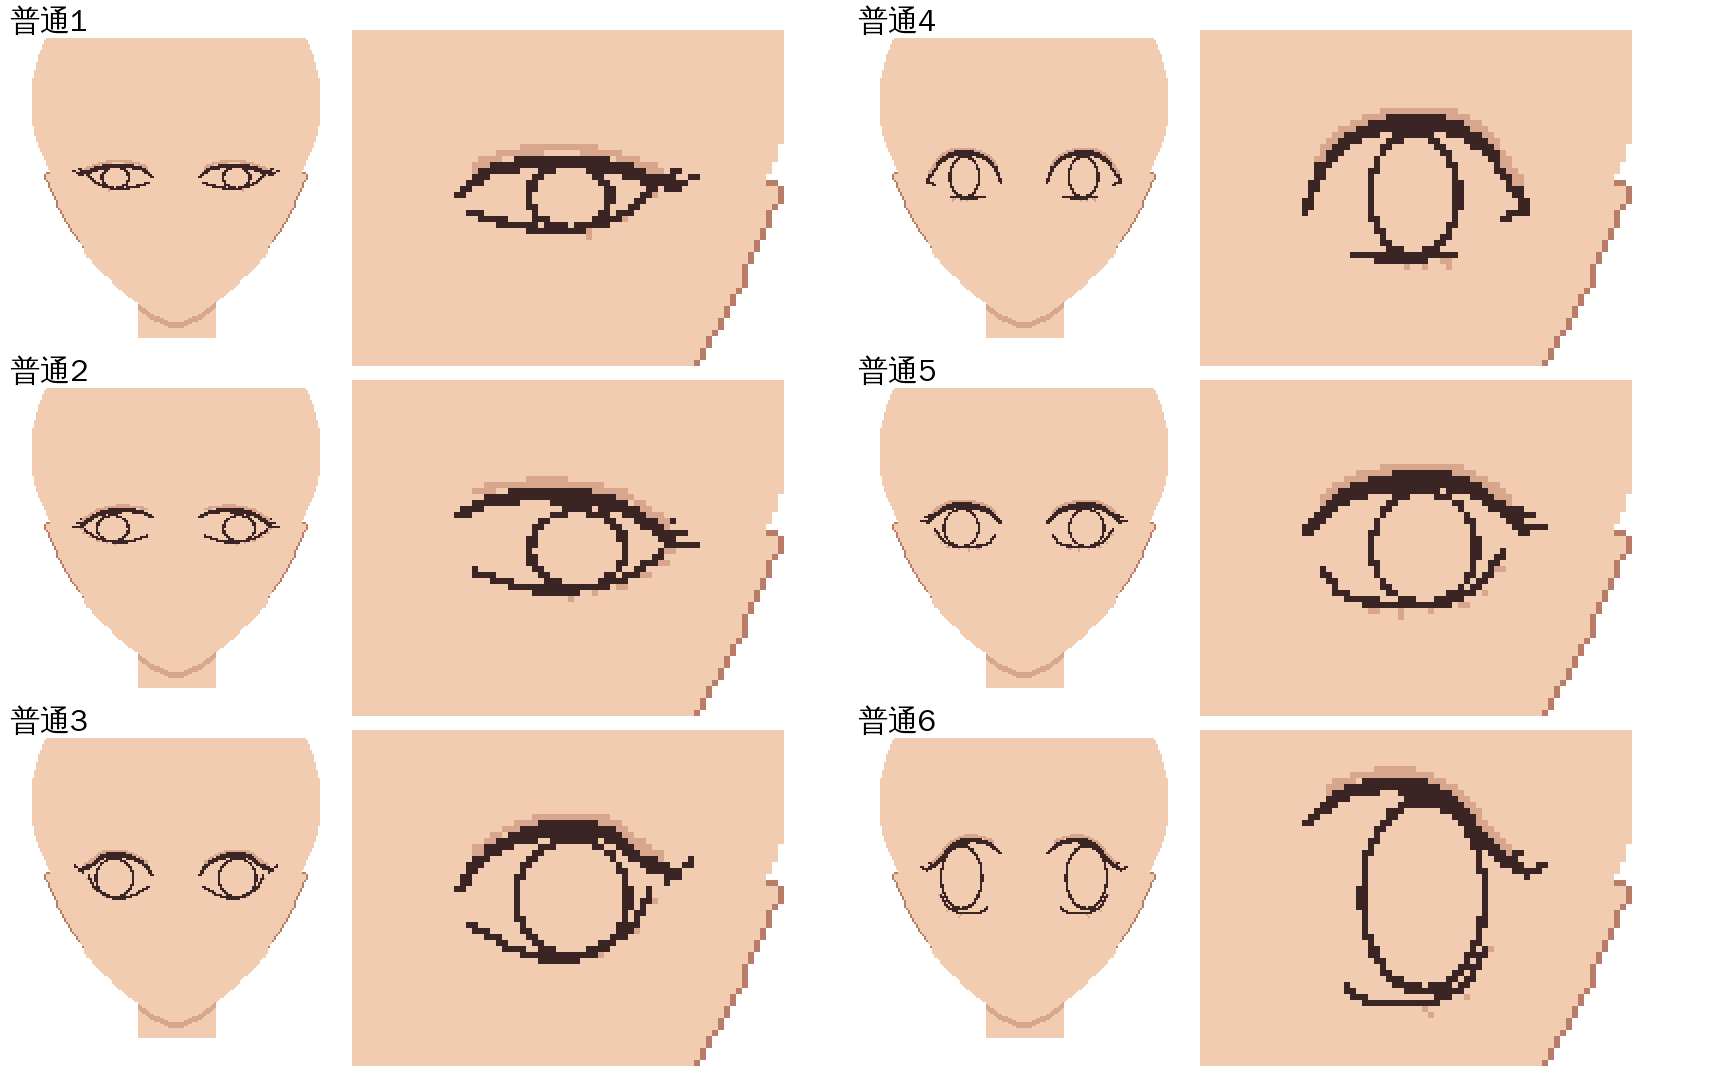
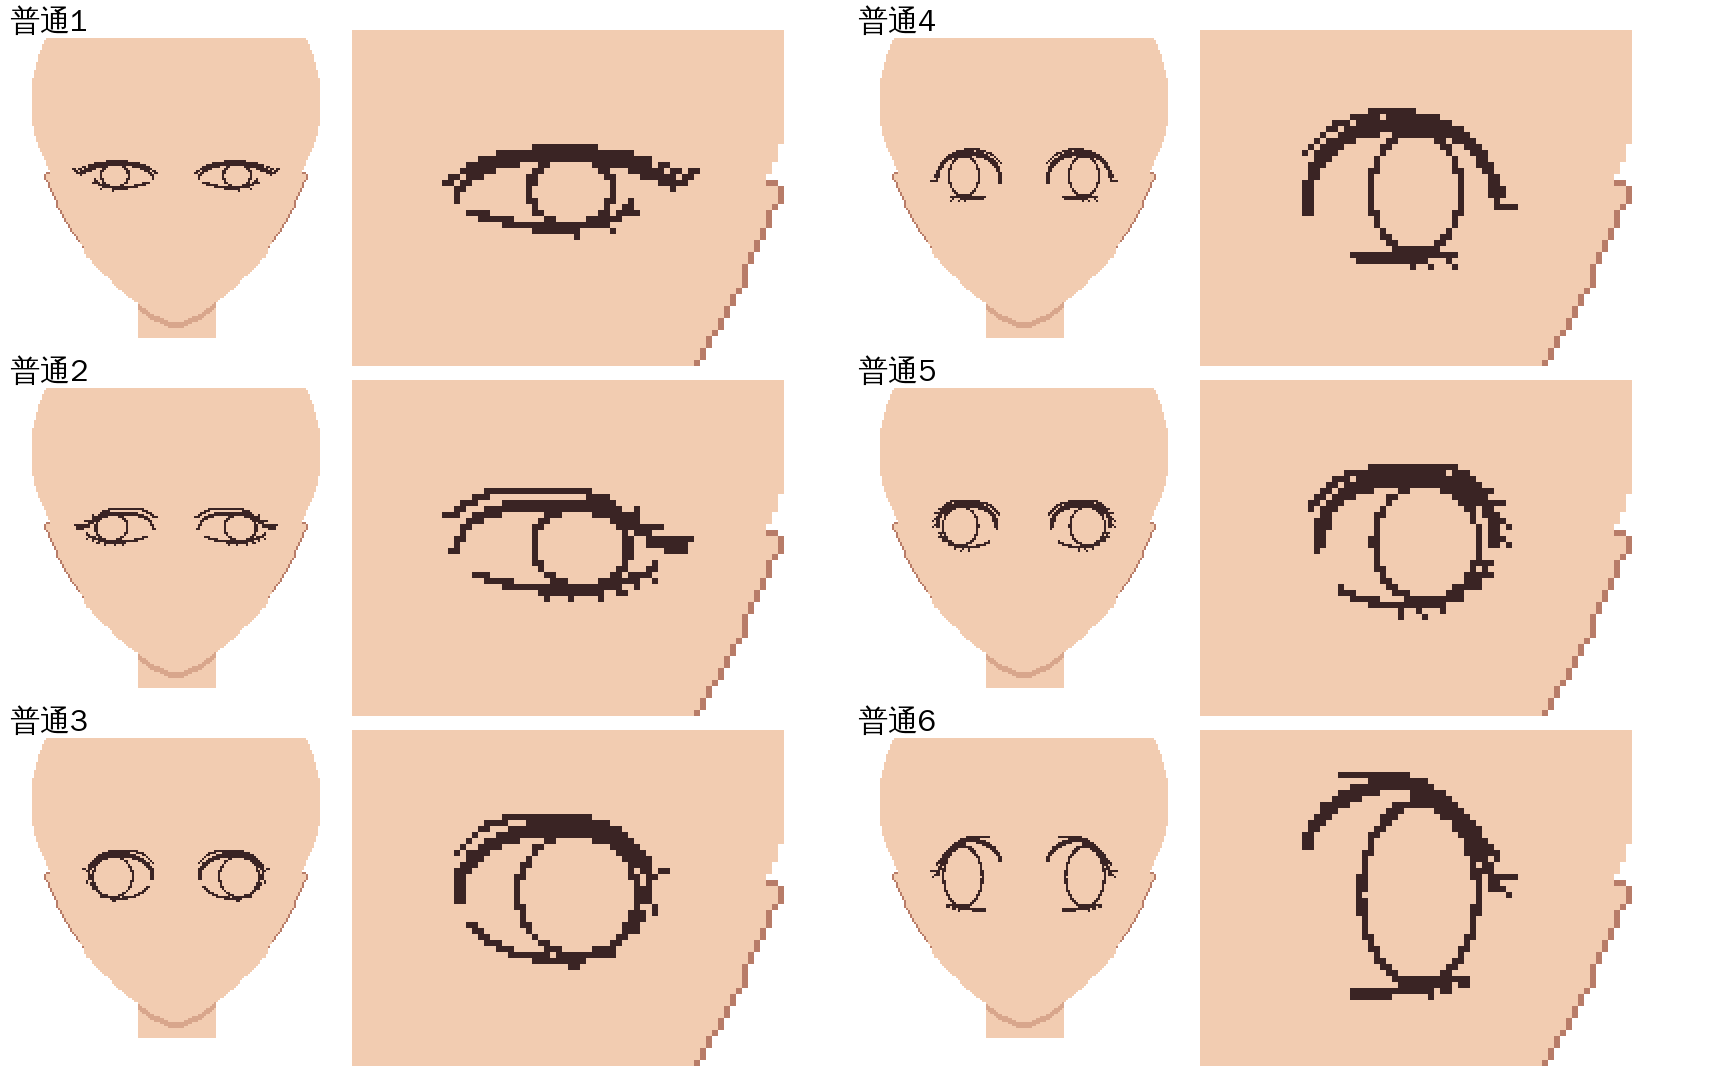
droom 臉模 v2：普通 6 種重量（使用者：黑眼球太小、要偏上；先不要著色）——把教學圖對到同一格子讀上眼線、雙眼皮線、下眼線和黑眼珠（大、中心偏上、上緣藏在上眼線下、下緣碰下眼線）；線稿模式雙眼皮線和下睫毛也用線色；對照圖 samples/eye_A_vs_ref.png
Claude-Session: https://claude.ai/code/session_01FDQv7ddy7JMjePn6AqJ3VJ

diff --git a/web/droom/face_mold/v2/eyeframe.py b/web/droom/face_mold/v2/eyeframe.py
@@ -16,18 +16,25 @@ LASHN=4;LASHL=3.0;IRISW,IRISH=5.6,7.8
 TYPES={
  # ── 2026-11-19 第二本教學「普通」那 6 個，照圖量的（眼寬當 27，原點在開口中央）──
  # 上眼線比較細、雙眼皮線貼得很近（cro）、下眼線整條畫、黑眼珠大而且上緣藏在上眼線下（ir＝中心 x,y、橫半徑、直半徑）
- 'A1':dict(name='普通1',up=[(-13.5,0),(-9.3,-3.1),(-2.4,-4.3),(4.5,-3.8),(10,-2.1),(13.5,-1)],upw=(1.0,2.0,1.6),
-   hooks=[],lo=[(-12.1,2.1),(-5.9,3.7),(-1,4.2),(4.5,3.3),(8.6,1.0),(10.6,-1.4)],lod=(0,1),low=1.0,ir=(.2,.1,5.5,4.4),crease=True,cro=1.6,lash=5),
- 'A2':dict(name='普通2',up=[(-13.4,-3.7),(-8.9,-5.8),(-.6,-6.2),(6.1,-5),(11,-2.1),(13.5,0)],upw=(1.0,2.2,1.6),
-   hooks=[],lo=[(-11.4,3.3),(-3.9,5.4),(2.7,5.1),(7.7,3.7),(11,1.2),(12.4,-.6)],lod=(0,1),low=1.0,ir=(1.2,.4,6.4,5.2),crease=True,cro=1.6,lash=5,lolashn=6),
- 'A3':dict(name='普通3',up=[(-13.5,-.8),(-9.6,-5.4),(-2.7,-8.1),(5,-7.7),(9.6,-4.2),(13.5,-2.7)],upw=(1.2,2.4,1.8),
-   hooks=[([(13.5,-2.7),(11.8,-1.2)],1.2)],lo=[(-11.9,3.5),(-5.8,6.9),(.4,7.7),(5.8,5.4),(8.9,2.3),(10,-.4)],lod=(0,1),low=1.0,ir=(.5,.2,7.4,7.6),crease=True,cro=1.6,lash=3),
- 'A4':dict(name='普通4',up=[(-13.5,1.6),(-10.7,-4.9),(-4.1,-8.6),(4.1,-8.6),(9,-5.7),(12.3,-.8),(13.5,1.6)],upw=(1.2,2.4,1.6),
-   hooks=[([(13.5,1.6),(10.6,2.8)],1.2)],lo=[(-7.4,7.4),(-2,7.6),(4.9,7.4)],lod=(0,1),low=1.0,poly_lo=[(13.5,1.6),(8,7.2),(-7.4,7.4),(-13.5,1.6)],ir=(-.2,-.2,5.9,8.2),crease=True,cro=1.6,lash=0),
- 'A5':dict(name='普通5',up=[(-13.5,-1.7),(-9.3,-5.9),(-2.4,-8),(4.5,-8),(10,-5.2),(13.5,-1.7)],upw=(1.4,2.8,2.0),
-   hooks=[],lo=[(-11.5,3),(-8.6,6.2),(-2.4,7.2),(3.8,6.9),(8,4.5),(10.5,1)],lod=(0,1),low=1.0,ir=(1,.2,6.9,7.4),crease=True,cro=1.6,lash=7,lolashn=6),
- 'A6':dict(name='普通6',up=[(-13.5,-9.1),(-8.4,-12.8),(-1.1,-13.7),(5.3,-11),(9.9,-5.5),(13.5,-2.7)],upw=(1.2,2.4,1.6),
-   hooks=[],lo=[(-9.5,8),(-7.5,12.4),(.7,13.3),(6.2,10.5),(9.4,4)],lod=(.15,.9),low=1.0,ir=(.9,0,8,12.4),crease=True,cro=1.6,lash=4,lolashn=3),
+ # 2026-11-19 重量（使用者：黑眼球太小、要偏上）：把教學圖對到同一格子（眼寬 27）一點一點讀出來
+ 'A1':dict(name='普通1',up=[(-14,-.5),(-10,-3.4),(-4,-4.8),(2,-4.8),(8,-3.8),(11,-2.5),(14,-1.5)],upw=(1.0,1.8,1.2),
+   hooks=[([(-14,-.5),(-13.6,.6)],1.0)],crease_pts=[(-15,-1.5),(-10,-4.6),(-2,-5.8),(6,-5.3),(10,-4)],
+   lo=[(-12,2),(-6,3.5),(-2,4),(3,3.6),(6,2.6),(8,.6)],lod=(0,1),low=1.0,ir=(.4,-.75,5.6,4.8),crease=True,lash=5),
+ 'A2':dict(name='普通2',up=[(-14,.5),(-12,-3),(-8,-4.6),(-2,-5),(4,-4.6),(8,-3),(11,-.5),(14,.5)],upw=(1.0,2.0,1.4),
+   hooks=[],crease_pts=[(-15,-3.5),(-10,-6.4),(-4,-7),(2,-6.6),(5,-5.6)],
+   lo=[(-11.5,3.5),(-6,5),(0,5.5),(5,5),(8,4),(11,2.5)],lod=(0,1),low=1.0,ir=(1.6,.1,6.4,5.4),crease=True,lash=5,lolashn=6),
+ 'A3':dict(name='普通3',up=[(-13.5,.5),(-13,-3),(-10,-6),(-5,-8),(0,-8.3),(4,-7.5),(8,-5),(10,-2.5),(9.3,.5)],upw=(1.4,2.2,1.6),
+   hooks=[([(9.6,-2),(12.6,-3.4)],1.2)],crease_pts=[(-14,-5),(-10,-8.6),(-4,-10),(2,-9.5),(7,-7.4),(10,-4.5)],
+   lo=[(-12,3.8),(-8,6.5),(-3,7.7),(0,7.8),(4,7),(7,5),(9,2.5)],lod=(0,1),low=1.0,ir=(1.2,-.2,7.8,8.0),crease=True,lash=2),
+ 'A4':dict(name='普通4',up=[(-13.5,2),(-13,-2),(-11,-5.5),(-7,-8),(-2,-8.8),(3,-8.4),(7,-6),(9.5,-2),(10,1.5)],upw=(1.2,2.2,1.6),
+   hooks=[([(10,1.5),(12.2,1.2)],1.2)],crease_pts=[(-14,-5),(-10,-8.6),(-4,-10.3),(2,-9.6),(7,-6.6),(10.5,-.5)],
+   lo=[(-7.5,7.6),(-1,7.6),(5,7.4)],lod=(0,1),low=1.0,ir=(0,-.5,6.0,8.0),crease=True,lash=0),
+ 'A5':dict(name='普通5',up=[(-12,0),(-11,-4),(-8,-7),(-3,-8.3),(2,-8.4),(6,-7),(9,-4.5),(9.6,0)],upw=(1.6,2.4,2.0),
+   hooks=[],crease_pts=[(-13,-5),(-9,-8.4),(-2,-9.8),(4,-9.6),(8,-7.6)],
+   lo=[(-9.5,5.5),(-5,7),(0,7.3),(4,6.5),(7,4.5),(9,2)],lod=(0,1),low=1.0,ir=(1.3,-.4,6.9,7.7),crease=True,lash=7,lolashn=6),
+ 'A6':dict(name='普通6',up=[(-13.5,-6.5),(-12,-9.5),(-9,-12),(-4,-13.8),(0,-13.6),(4,-11),(7,-6.5),(9,-3.5),(9.5,-1)],upw=(1.4,2.2,1.6),
+   hooks=[([(9.4,-2.5),(12.5,-2)],1.2)],crease_pts=[(-9,-14.8),(-2,-14.8),(4,-12),(8,-7.4),(10,-4.5)],
+   lo=[(-8,12.2),(-2,11.9),(3,11),(6,10)],lod=(0,1),low=1.0,ir=(.4,-.3,7.6,11.9),crease=True,lash=2,lolashn=3),
  'N1':dict(name='普通・杏仁',
    up=[(-12,0),(-7,-4.5),(0,-6.2),(7,-5.6),(12.5,-2.6),(14.2,-1.6)],upw=(1.2,2.8,1.6),
    hooks=[([(-12,0),(-13.2,1.4)],1.0)],
@@ -94,7 +101,7 @@ def _seg_d(px,py,a,b):
 class Frame:
   def __init__(s,key):
     T=TYPES[key];s.T=T
-    s.up=_cr(T['up']);s.lo=_cr(T['lo'])
+    s.up=_cr(T['up']);s.lo=_cr(T['lo']);s.crease=_cr(T['crease_pts']) if 'crease_pts' in T else []
     side=_cr(T['side'],6) if 'side' in T else []
     s.side=side
     s.poly=s.up+side+s.lo[::-1]
@@ -131,7 +138,9 @@ class Frame:
   def at(s,x,y,sgn=1,idx=0):
     T=s.T
     # 雙眼皮線：上眼線往上 3.6，只畫中段
-    if T.get('crease'):
+    if 'crease_pts' in T:
+      if s._near(x,y,s.crease,.9):return 'K' if LINE else 'c'
+    elif T.get('crease'):
       for i in range(len(s.up)//8,len(s.up)*9//10):
         ux,uy=s.up[i]
         if abs(x-ux)<.5 and abs(y-(uy-T.get('cro',3.6)))<.5:return 'c'
@@ -151,7 +160,7 @@ class Frame:
     for key in('lohook','lotail'):
       if key in T and s._near(x,y,T[key][0],T[key][1]*HOOKK):return LOWC
     for seg in s.lolash:
-      if s._near(x,y,seg,.7):return LOWC
+      if s._near(x,y,seg,.7):return 'K' if LINE else LOWC
     if not _inpoly(x,y,s.poly):return None
     # 眼睛裡面（同舊眼睛的配色）
     if 'ir' in T:   # 照教學量的黑眼珠：中心、橫半徑、直半徑（大、上緣藏在上眼線下面）
